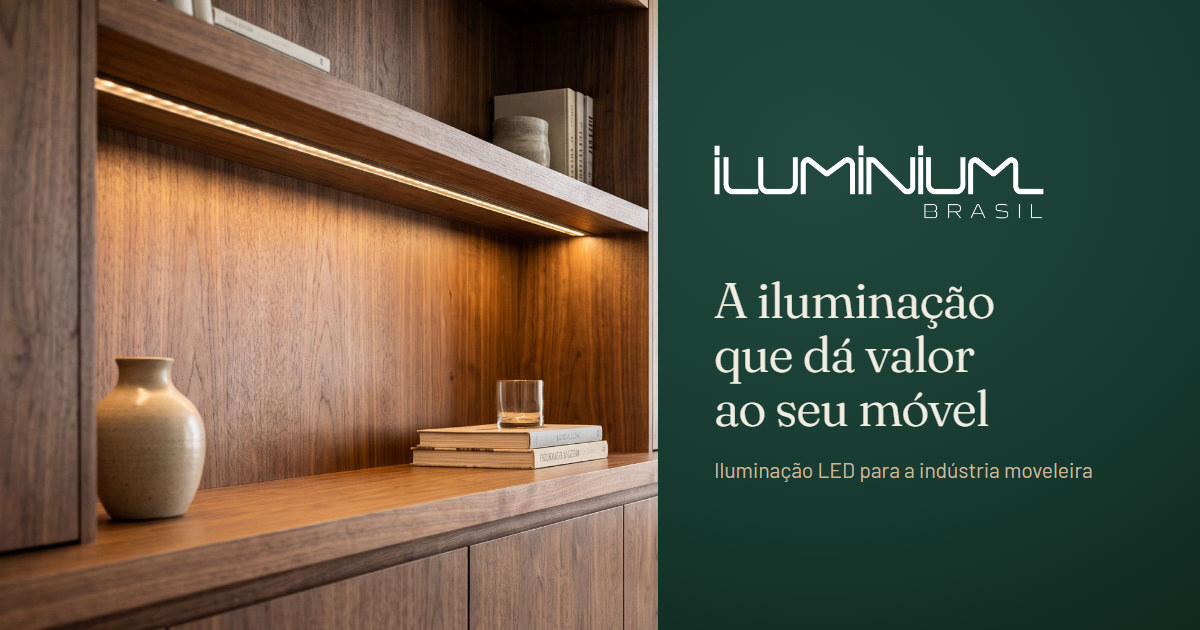
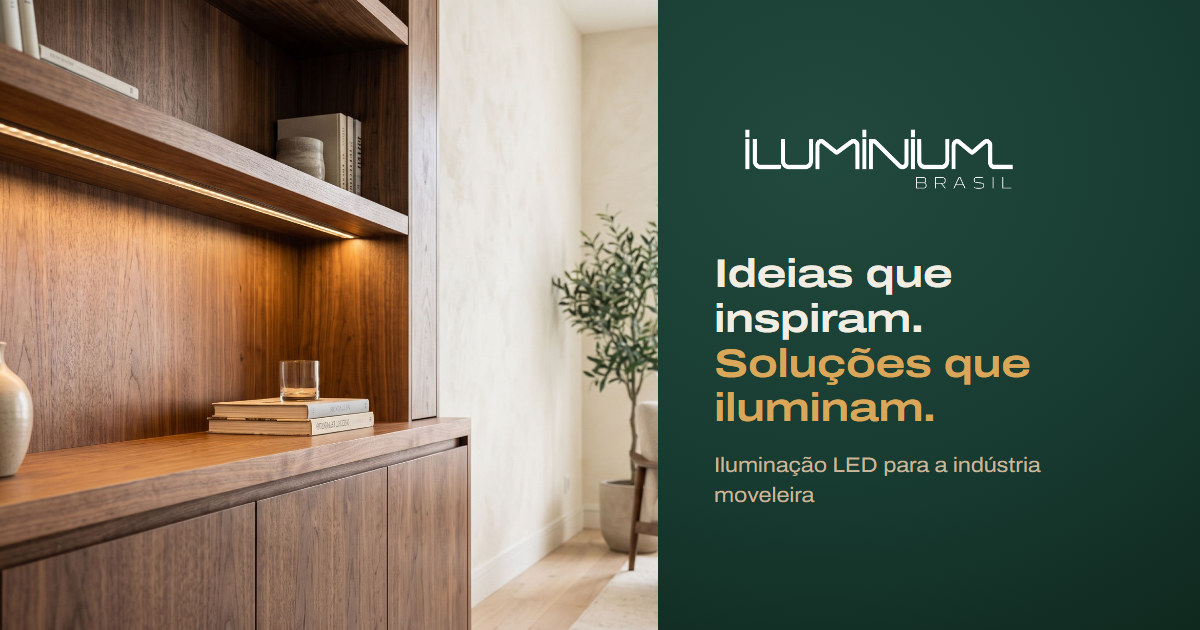
Frase de efeito nova: Ideias que inspiram. Soluções que iluminam.
Título da home em duas linhas (a segunda na cor da luz) e imagem de
compartilhamento (og-image) refeita com a frase e a fonte Archivo.

diff --git a/index.html b/index.html
@@ -21,7 +21,7 @@
 <meta property="og:image" content="https://iluminiumbrasil.com.br/og-image.jpg">
 <meta property="og:image:width" content="1200">
 <meta property="og:image:height" content="630">
-<meta property="og:image:alt" content="Estante de madeira com fita de LED acesa e o logo da Iluminium Brasil">
+<meta property="og:image:alt" content="Estante de madeira com fita de LED acesa, o logo da Iluminium Brasil e a frase Ideias que inspiram. Soluções que iluminam.">
 <meta name="twitter:card" content="summary_large_image">
 <meta name="twitter:title" content="Iluminium Brasil — Iluminação em LED, perfis e acessórios">
 <meta name="twitter:description" content="Fitas de LED, perfis de alumínio, lentes difusoras, fontes, sensores e acessórios para fabricantes de móveis.">
@@ -105,7 +105,7 @@
   <div class="scrim"></div>
 
   <div class="hero-copy">
-    <h1>A iluminação que dá valor ao seu móvel</h1>
+    <h1><span>Ideias que inspiram.</span> <span>Soluções que iluminam.</span></h1>
     <p class="hero-sub">Kits de LED prontos para a linha de produção da indústria moveleira.</p>
     <div class="hero-ctas">
       <a class="hero-cta" href="#contato">Solicitar orçamento</a>

diff --git a/css/home.css b/css/home.css
@@ -570,3 +570,8 @@
 
 /* campo-isca do formulário (anti-robô): fora da tela, sem ocupar espaço */
 .campo-isca{ position: absolute; left: -9999px; width: 1px; height: 1px; overflow: hidden; }
+
+/* frase de efeito (13/10/2026): duas frases, uma por linha; a segunda na cor da luz */
+.hero-copy h1{ max-width: 22ch; }
+.hero-copy h1 span{ display: block; }
+.hero-copy h1 span + span{ color: var(--luz-clara); }
